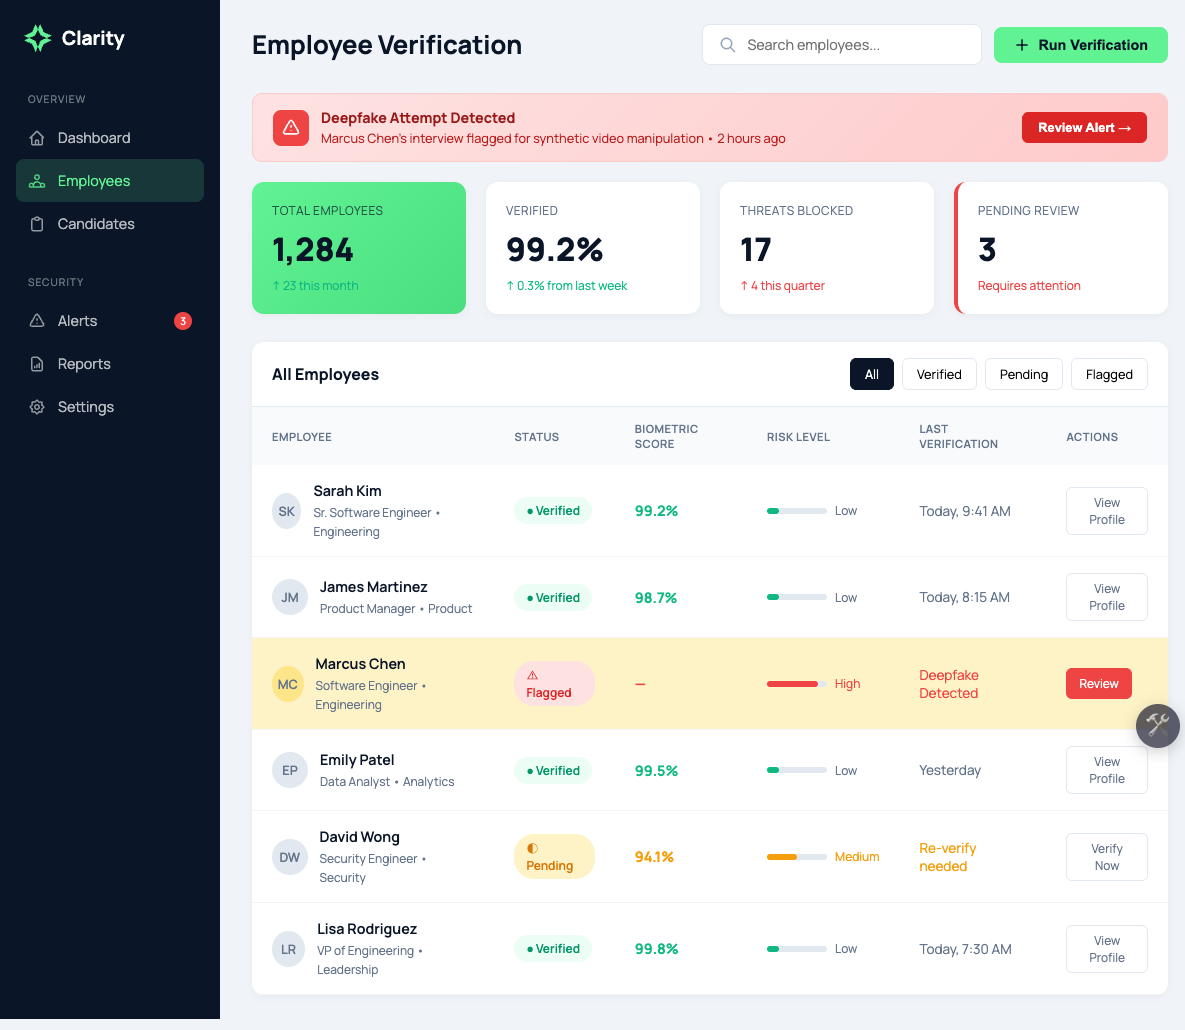
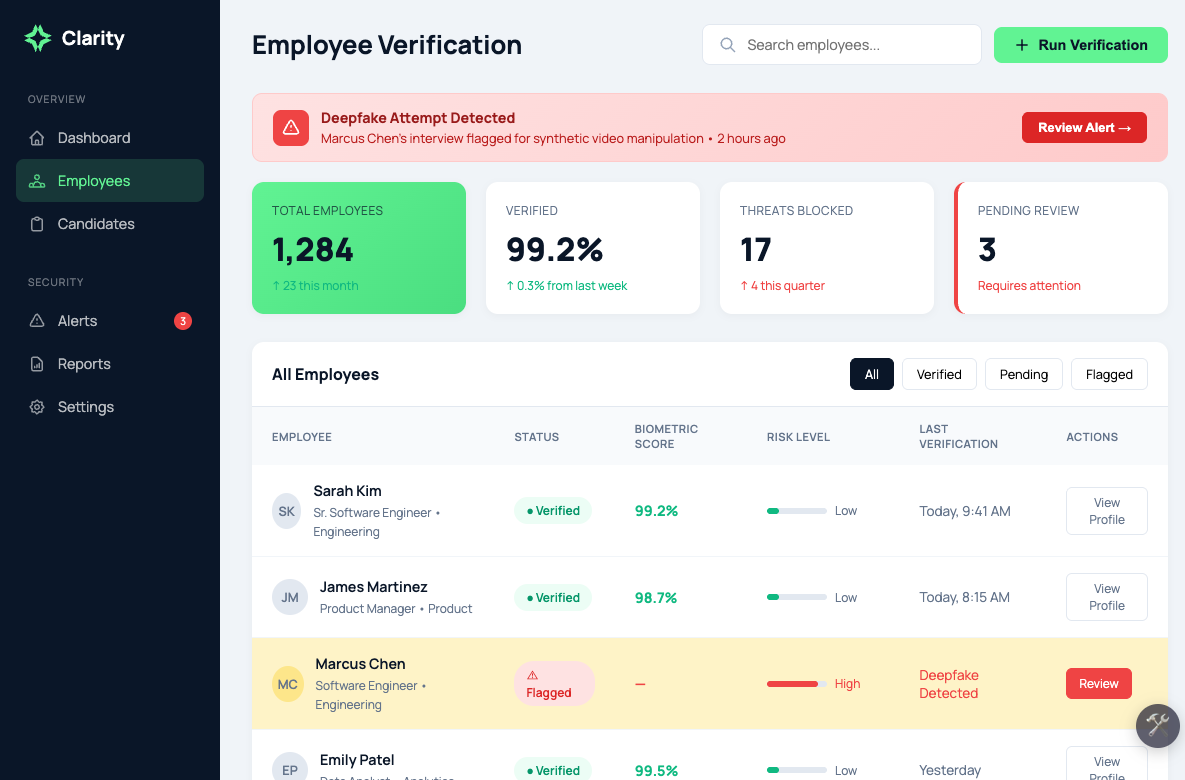
Crop dashboard to show header through Emily Patel; revert to object-fit cover

diff --git a/presentations/masterclass/index.html b/presentations/masterclass/index.html
@@ -1277,7 +1277,7 @@ function revealAnswer() {
         </div>
         
         <div class="demo-frame" style="box-shadow: 0 15px 50px rgba(10, 22, 40, 0.15); border-radius: 12px; overflow: hidden; border: 1px solid rgba(10, 22, 40, 0.1); flex: 1; min-height: 0;">
-            <img src="../../shared/screenshots/employee-dashboard.png" alt="Clarity Employee Dashboard" style="width: 100%; height: 100%; object-fit: contain; object-position: top; display: block;">
+            <img src="../../shared/screenshots/employee-dashboard.png" alt="Clarity Employee Dashboard" style="width: 100%; height: 100%; object-fit: cover; object-position: top; display: block;">
         </div>
         
         <div style="text-align: center; margin-top: 16px; flex-shrink: 0;">
